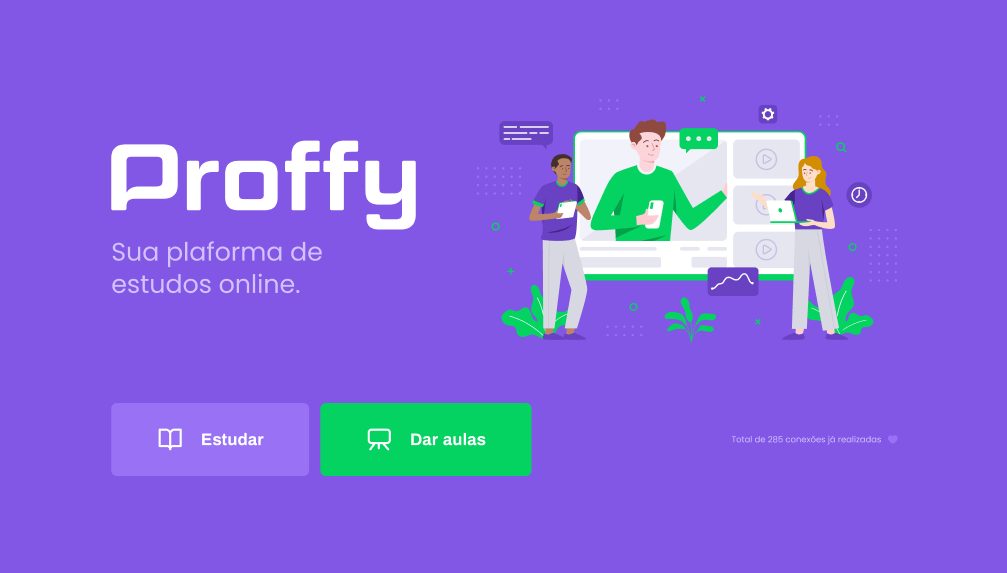
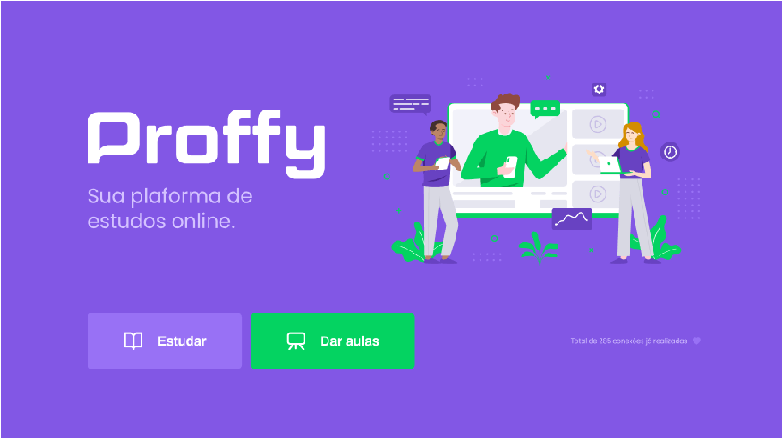
Updated the landing page

diff --git a/styles/partials/page-landing.css b/styles/partials/page-landing.css
@@ -1,0 +1,129 @@
+#page-landing {
+    background: var(--color-primary);
+}
+
+#page-landing #container {
+    color: var(--color-text-in-primary);
+}
+
+.logo-container img {
+    height: 10rem;
+}
+
+.logo-container {
+    text-align: center;
+    margin-bottom: 3.2rem;
+}
+
+.logo-container h2 {
+    font-weight: 500;
+    font-size: 3.6rem;
+    line-height: 4.6rem;
+    margin-top: 0.8rem;
+}
+
+.hero-image {
+    height: 10%;               /* The reference is container */
+}
+
+.buttons-container {
+    display: flex;              /* Put all the elements next to each other (side by side) */
+    justify-content: center;    /* Put the buttons in the center */
+    margin: 3.2rem 0;
+}
+
+.buttons-container a {
+    width: 30rem;
+    height: 10.4rem;
+    
+    border-radius: 0.8rem;    
+    
+    font: 700 2.4rem Archivo;
+    
+    display: flex;             
+    align-items: center;
+    justify-content: center;
+    
+    text-decoration: none;      /* Remove the underline below the word (Estudar and Dar aulas)*/
+    
+    color: var(--color-button-text);
+
+    transition: background 0.2s;
+}
+
+.buttons-container a img {
+    width: 4rem;
+    margin-right: 2.4rem;
+}
+
+.buttons-container a.study {
+    background: var(--color-primary-lighter);
+    margin-right: 1.6rem;
+}
+
+.buttons-container a.study:hover {
+    background: var(--color-primary-light);
+
+}
+
+.buttons-container a.give-classes {
+    background: var(--color-secondary);
+    margin-right: 0;
+}
+
+.buttons-container a.give-classes:hover {
+    background: var(--color-secondary-dark);    
+}
+
+.total-connections {
+    font-size: 1.8rem;
+    display: flex;
+    align-items: center;
+    justify-content: center;
+}
+
+.total-connections img {
+    margin-left: 0.8rem;
+}
+
+@media (max-width: 699px){
+    :root{
+        font-size: 40%;    /* Modify the rem measures */
+    }
+}
+@media (min-width: 1100px){
+    #page-landing #container {
+        max-width: 1100px;
+        display: grid;
+        grid-template-columns: 2fr 1fr 2fr;
+        grid-template-rows: 350px 1fr;
+        grid-template-areas:
+        "proffy image image"
+        "button button texting";
+        column-gap: 87px;
+        row-gap: 86px;
+    }
+    .logo-container{
+        grid-area: proffy;
+        text-align: initial;
+        align-self: center;
+        margin: 0;
+    }
+    .logo-container img {
+        height: 127px;
+    }
+    .hero-image{
+        grid-area: image;
+        height: 350px;
+    }
+    .buttons-container{
+        grid-area: button;
+        justify-content: flex-start;
+        margin: 0;
+    }
+    .total-connections{
+        grid-area: texting;
+        justify-self: end;
+        font-size: 1.2rem;
+    }
+}

diff --git a/styles/main.css b/styles/main.css
@@ -1,0 +1,73 @@
+/* CSS - Cascading Style Sheet */
+
+/*:root -> Elemento principal da página inteira  */
+:root {
+    /* CSS Variables */
+    --color-background: #F0F0F7;
+    --color-primary-lighter: #9871F5;
+    --color-primary-light: #916BEA;
+    --color-primary: #8257E5;
+    --color-primary-dark: #774DD6;
+    --color-primary-darker: #6842c2;
+    --color-secondary: #04D361;
+    --color-secondary-dark: #04BF58;
+    --color-title-in-primary: #FFFFFF;
+    --color-text-in-primary: #D4C2FF;
+    --color-text-title: #32264D;
+    --color-text-complement: #9C98A6;
+    --color-text-base: #6A6180;
+    --color-line-in-white: #E6E6F0;
+    --color-input-background: #F8F8FC;
+    --color-button-text: #FFFFFF;
+    --color-box-base: #FFFFFF;
+    --color-box-footer: #FAFAFC;
+    --color-small-info: #C1BCCC;
+
+    /* Size font (standard: 16px - 100% - 1rem */
+    font-size: 60%; /* controle das medidas rem */
+}
+
+* {
+    margin: 0;
+    padding: 0;
+    box-sizing: border-box;
+}
+
+html,
+body {
+    height: 100vh;  /* Altura */
+}
+body {
+    background-color: var(--color-background);
+    display: flex;
+    align-items: center;
+    justify-content: center;
+}
+
+body,
+input,
+button,
+textarea {
+    font: 500 1.6rem Poppins;
+    /* font-weight: 500;
+    font-family: Poppins;
+    font-size: 1.6rem; */
+    color: var(--color-text-base);
+}
+
+#container {
+    /* box model  */
+    /* border: 1px solid red; */
+    /* padding: 10px 40px 60px 2px; top right down left */
+    /* margin: 60px; */
+    /* width: 300px; */
+    /* height: 100px; */
+    width: 90vw;
+    max-width: 700px;
+} 
+
+@media (min-width: 700px){
+    :root {
+        font-size: 62.5%; /* All 1rem will be relative to 10px */
+    }
+}

diff --git a/index.html b/index.html
@@ -10,15 +10,36 @@
     <meta charset="UTF-8">
     <meta name="viewport" content="width=device-width, initial-scale=1.0">
     <title>Proffy | Sua plataforma de estudos online</title>    
-    <link rel="stylesheet" href="style.css">
+    <link rel="stylesheet" href="/styles/main.css">
+    <link rel="stylesheet" href="/styles/partials/page-landing.css">
     <link href="https://fonts.googleapis.com/css2?family=Archivo:wght@400;700&amp;family=Poppins:wght@400;600&amp;display=swap" rel="stylesheet">
 </head>
 <body id = "page-landing">
+    
     <div id = "container">
-        <h1>Proffy</h1>    
-        <p>Sua plataforma de estudos online</p>       
-        <button>Estudar</button>
-        <button>Dar Aulas</button>
+        
+        <div class="logo-container">
+            <img src="/images/logo.svg" alt="Proffy">
+            <h2>Sua plataforma de estudos online</h2>
+        </div>
+
+        <img class = "hero-image" src="/images/landing.svg" alt="Plataforma de Estudos">
+           
+        <div class="buttons-container">
+            <a class="study" href="/study.html">
+                <img src="/images/icons/study.svg" alt="Estudar">
+                Estudar
+            </a>
+            <a class="give-classes" href="/give-classes.html">
+                <img src="/images/icons/give-classes.svg" alt="Dar aulas">
+                Dar aulas
+            </a>
+        </div>
+
+        <p class="total-connections">
+            Total de 200 conexões já realizadas
+            <img src="/images/icons/purple-heart.svg" alt="Coração roxo" >
+        </p>
     </div>
 </body>
 </html>
